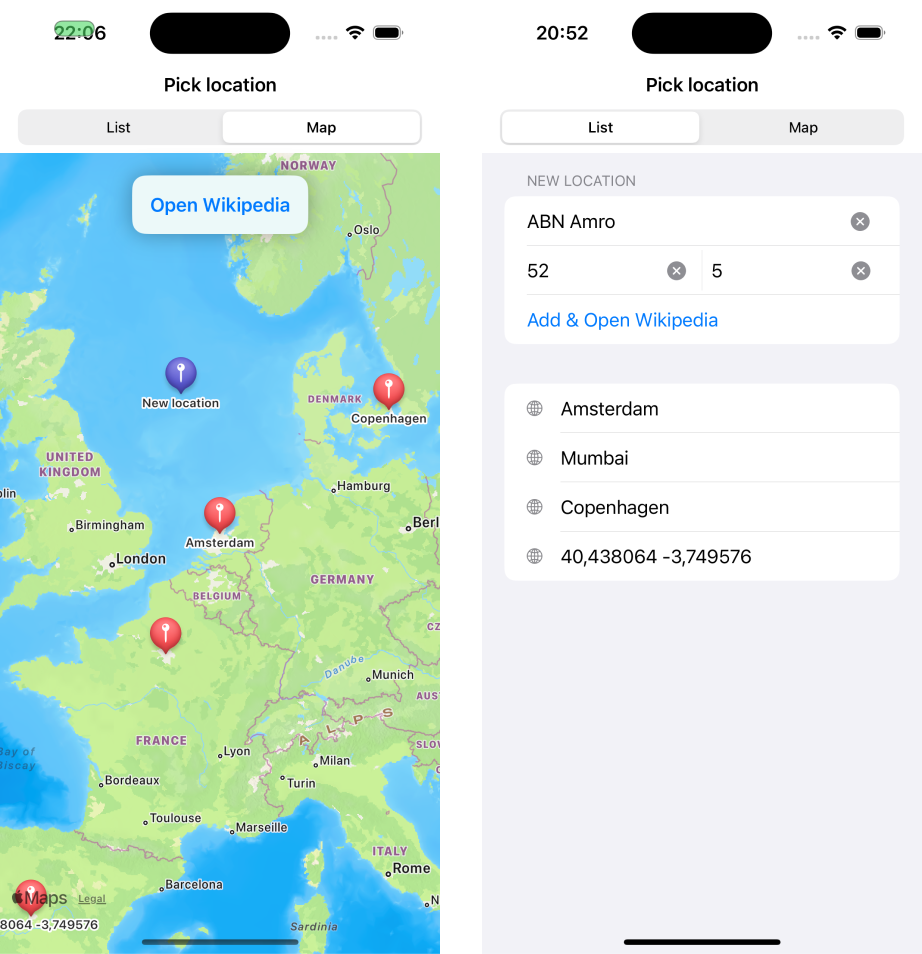
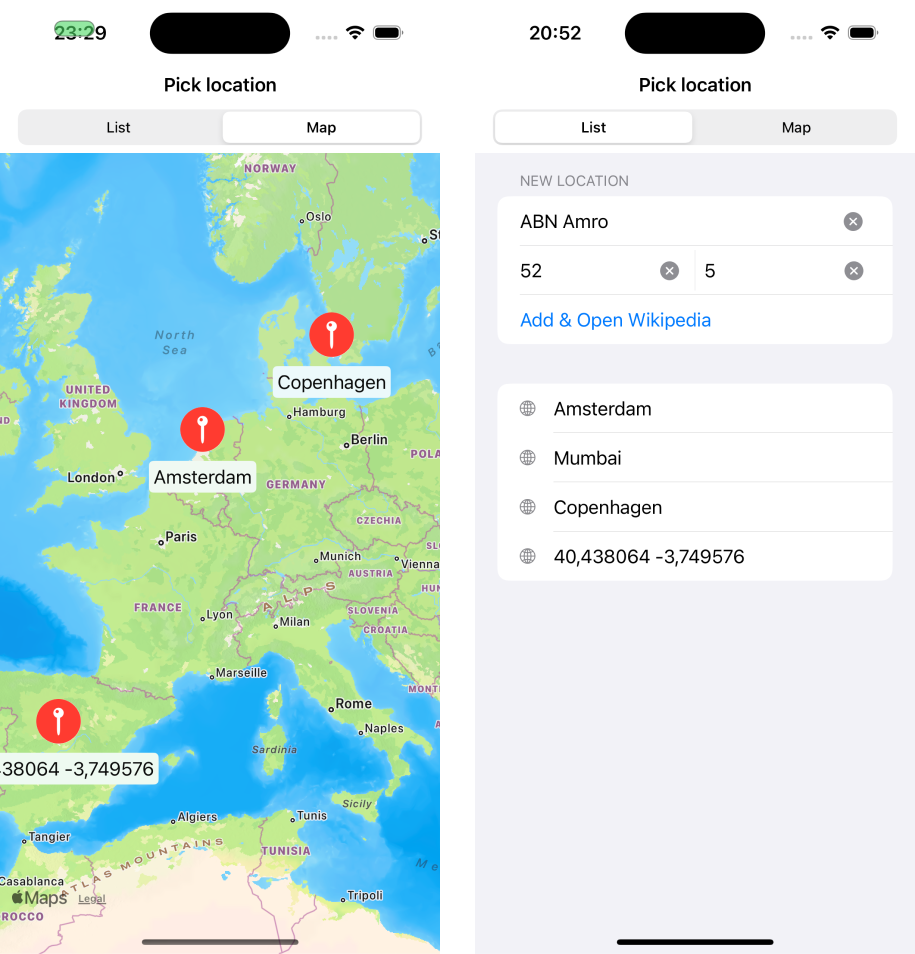
fix map view glitch; add more comments

diff --git a/ABNLocationPicker/Screens/LocationsList/Views/MapView.swift b/ABNLocationPicker/Screens/LocationsList/Views/MapView.swift
@@ -23,18 +23,33 @@ struct MapView: View {
 
     var body: some View {
         MapReader { reader in
-            Map(position: $position, selection: $selectedLocation) {
+            Map(position: $position) {
                 if let selectedNewLocation {
                     Marker(LocalizedStringKey("Map.NewLocaton"), coordinate: selectedNewLocation)
                         .tint(.indigo)
                 }
                 
                 ForEach(viewModel.locations) { location in
-                    Marker(coordinate: location.coordinate) {
-                        Text(location.safeName)
+                    Annotation("", coordinate: location.coordinate) {
+                        VStack {
+                            Image(systemName: "mappin.circle.fill")
+                                .resizable()
+                                .frame(width: Constants.UI.markerSize, height: Constants.UI.markerSize)
+                                .foregroundStyle(Color(UIColor.systemRed))
+                                .background(
+                                    Color.white
+                                        .clipShape(RoundedRectangle(cornerRadius: Constants.UI.markerSize / 2))
+                                )
+                            
+                            Text(location.safeName)
+                                .padding(4)
+                                .background(.thickMaterial)
+                                .clipShape(RoundedRectangle(cornerRadius: 4))
+                        }
+                        .onLongPressGesture(minimumDuration: .zero, maximumDistance: .zero) { // see comment below
+                            selectedLocation = location
+                        }
                     }
-                    .tag(location)
-                    .mapOverlayLevel(level: .aboveLabels)
                 }
             }
             .onTapGesture { screenCoord in
@@ -43,7 +58,7 @@ struct MapView: View {
                      selectedNewLocation = pinLocation
                  }
             }
-            // Unfortunately, this overlaps with Marker tap gestures and causes a minor visual glitch (see https://stackoverflow.com/questions/74675989/how-to-have-ontap-gestures-on-map-and-mapannotation-both-without-the-two-interf)
+            // Unfortunately, this overlaps with Marker tap gestures and causes a minor visual glitch. Eventually i decided not to use standard markers for both saved locations and new ones (see https://stackoverflow.com/questions/74675989/how-to-have-ontap-gestures-on-map-and-mapannotation-both-without-the-two-interf)
             .onMapCameraChange(frequency: .onEnd) { context in
                 lastCameraPosition = context.camera.centerCoordinate
             }

diff --git a/ABNLocationPicker/UI/Constants.swift b/ABNLocationPicker/UI/Constants.swift
@@ -13,5 +13,7 @@ enum Constants {
         
         /// Horizontal padding for `ListView`
         static let listViewHPadding: Double = 20
+        
+        static let markerSize: Double = 40
     }
 }

diff --git a/README.md b/README.md
@@ -44,3 +44,4 @@
 - MVVM architecture is being used
 - ViewModel accepts actions and modifies its state. No external modifications are allowed.
 - For real app i would add swiftlint and code generation tools for licalized strings and resources (swiwtgen or r.swift)
+- For real app i would implement proper design system with all fonts and colors
